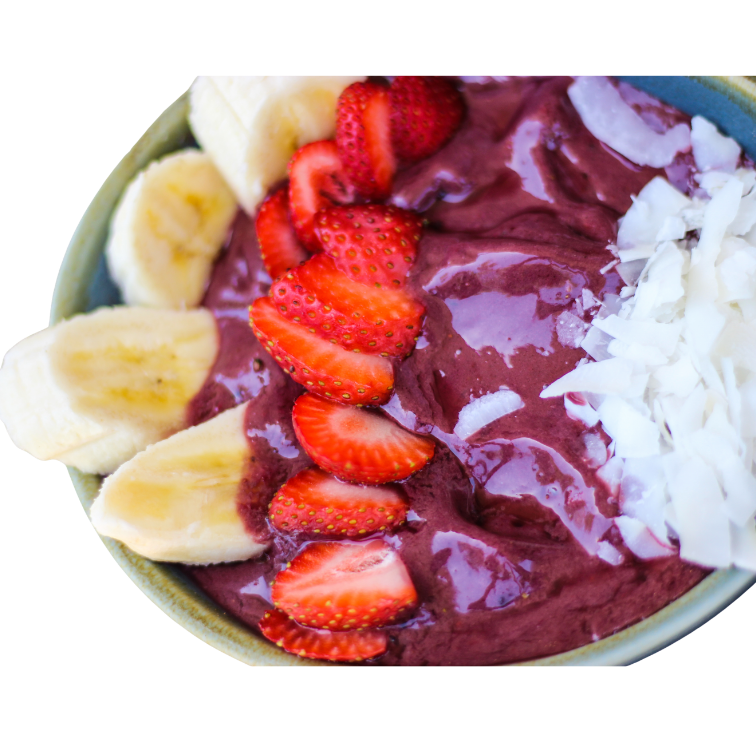
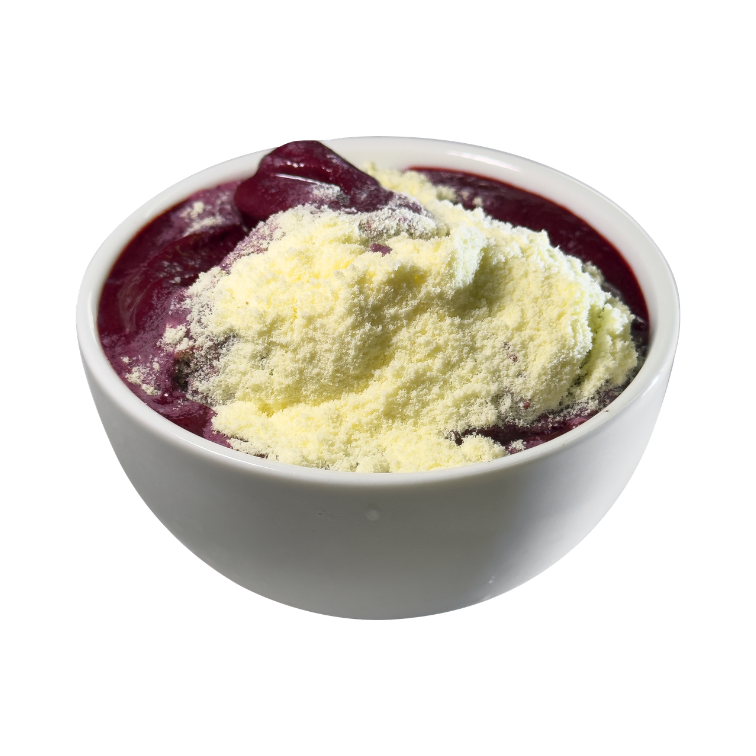
Add files via upload

diff --git a/Zes_Açai/pages/index.html b/Zes_Açai/pages/index.html
@@ -14,7 +14,7 @@
             <nav class="nav-bar">
                 <ul>
                     <li><a href="#cardapio">Cardápio</a></li>
-                    <li><a href="#">Por que nós</a></li>
+                    <li><a href="#diferenciais">Por que nós</a></li>
                     <li><a href="#">Avaliações</a></li>
                     <li><a href="#">Contato</a></li>
                 </ul>
@@ -48,45 +48,75 @@
 
                     <div class="card-produto">
                         <img class="imagem_acai" src="/Zes_Açai/assets/images/cardapio/5.png" alt="Açai Tradicional">
-                        <h3>Açai Tradicional</h3>
-                        <p>Açai puro.</p>
-                        <span class="preco">R$14,90</span>
+                        <div class="info-produto">
+                            <h3>Açai Tradicional</h3>
+                            <p>Açai puro.</p>
+                            <span class="preco">R$14,90</span>
+                        </div>
                     </div>
 
                     <div class="card-produto">
                         <img class="imagem_acai" src="/Zes_Açai/assets/images/cardapio/3.png" alt="Açai com Frutas">
-                        <h3>Açai com Frutas</h3>
-                        <p>Açai com morango, manga, kiwi e banana, servido com granola.</p>
-                        <span class="preco">R$18,90</span>
+                        <div class="info-produto">
+                            <h3>Açai com Frutas</h3>
+                            <p>Açai com morango, manga, kiwi e banana, servido com granola.</p>
+                            <span class="preco">R$18,90</span>
+                        </div>
                     </div>
 
                     <div class="card-produto">
                         <img class="imagem_acai" src="/Zes_Açai/assets/images/cardapio/2.png" alt="Açai com Chocolate">
-                        <h3>Açai com Chocolate</h3>
-                        <p>Açai com calda de chocolate, servido com disquete.</p>
-                        <span class="preco">R$19,90</span>
+                        <div class="info-produto">
+                            <h3>Açai com Chocolate</h3>
+                            <p>Açai com calda de chocolate, servido com disquete.</p>
+                            <span class="preco">R$19,90</span>
+                        </div>
                     </div>
 
                     <div class="card-produto">
                         <img class="imagem_acai" src="/Zes_Açai/assets/images/cardapio/4.png" alt="Açai Fit">
-                        <h3>Açai Fit</h3>
-                        <p>Açai com banana, servido com granola.</p>
-                        <span class="preco">R$20,90</span>
+                        <div class="info-produto">
+                            <h3>Açai Fit</h3>
+                            <p>Açai com banana, servido com granola.</p>
+                            <span class="preco">R$20,90</span>
+                        </div>
                     </div>
 
                     <div class="card-produto">
                         <img class="imagem_acai" src="/Zes_Açai/assets/images/cardapio/1.png" alt="Açai com Morango">
-                        <h3>Açai com Morango</h3>
-                        <p>Açai servido com morango, chocolate e canudo comestivel.</p>
-                        <span class="preco">R$20,90</span>
+                        <div class="info-produto">
+                            <h3>Açai com Morango</h3>
+                            <p>Açai servido com morango, chocolate e canudo comestivel.</p>
+                            <span class="preco">R$20,90</span>
+                        </div>
                     </div>
 
                     <div class="card-produto">
-                        <img class="imagem_acai" src="/Zes_Açai/assets/images/cardapio/6.png" alt="Açai com Coco">
-                        <h3>Açai com Coco</h3>
-                        <p>Açai servido com coco, morango e banana.</p>
-                        <span class="preco">R$20,90</span>
+                        <img class="imagem_acai" src="/Zes_Açai/assets/images/cardapio/6.png" alt="Açai com Leite Ninho">
+                        <div class="info-produto">
+                            <h3>Açai com Leite Ninho</h3>
+                            <p>Açai servido com leite ninho.</p>
+                            <span class="preco">R$20,90</span>
+                        </div>
                     </div>
+                </div>
+            </div>
+        </section>
+
+        <section id="diferenciais">
+            <div class="secao-diferenciais">
+                <h2 class="titulo-diferenciais">Por que escolher o Zé´s Açai?</h2>
+                <p class="subtitulo-diferenciais">Qualidade e cuidado em cada detalhe.</p>
+                <div class="grade-diferenciais">
+                    <div class="item-diferencial">
+                        <h3>100% Natural</h3>
+                        <p>Açai da Amazônia, sem conservantes artificiais.</p>
+                    </div>
+                    <div class="item-diferencial">
+                        <h3>Preparo rápido</h3>
+                        <p>Seu açai fica pronto .</p>
+                    </div>
+
                 </div>
             </div>
         </section>

diff --git a/Zes_Açai/assets/styles/style.css b/Zes_Açai/assets/styles/style.css
@@ -156,9 +156,8 @@ section {
 
 .card-produto {
     background-color: #fff;
-    /* box-shadow: 4px 4px 8px rebeccapurple,
-                -4px -4px 8px violet; */
-    border: 1px solid #e0d4f0;
+    box-shadow: 4px 4px 8px #bebebe,
+                -4px -4px 8px #ffffff;
     border-radius: 20px;
     padding: 20px 35px;
     text-align: center;
@@ -171,11 +170,36 @@ section {
     transform: translateY(-5px);
 }
 
-.preco {
-    color: #31023b;
+.card-produto:active {
+   
 }
 
 .imagem_acai {
-    width: 250px;
+    object-fit: cover;
+    width: 100%;
     height: auto;
+    display: block;
+}
+
+.info-produto {
+    padding: 20px;
+}
+
+.info-produto h3 {
+    font-size: 1.1rem;
+    color: #31023b;
+    margin-bottom: 14px;
+}
+
+.info-produto P {
+    font-size: 0.9rem;
+    color: #555555;
+    margin-bottom: 14px;
+    line-height: 1.5;
+}
+
+.preco {
+    color: #6B3FA0;
+    font-size: 1.2rem;
+    font-weight: 700;
 }